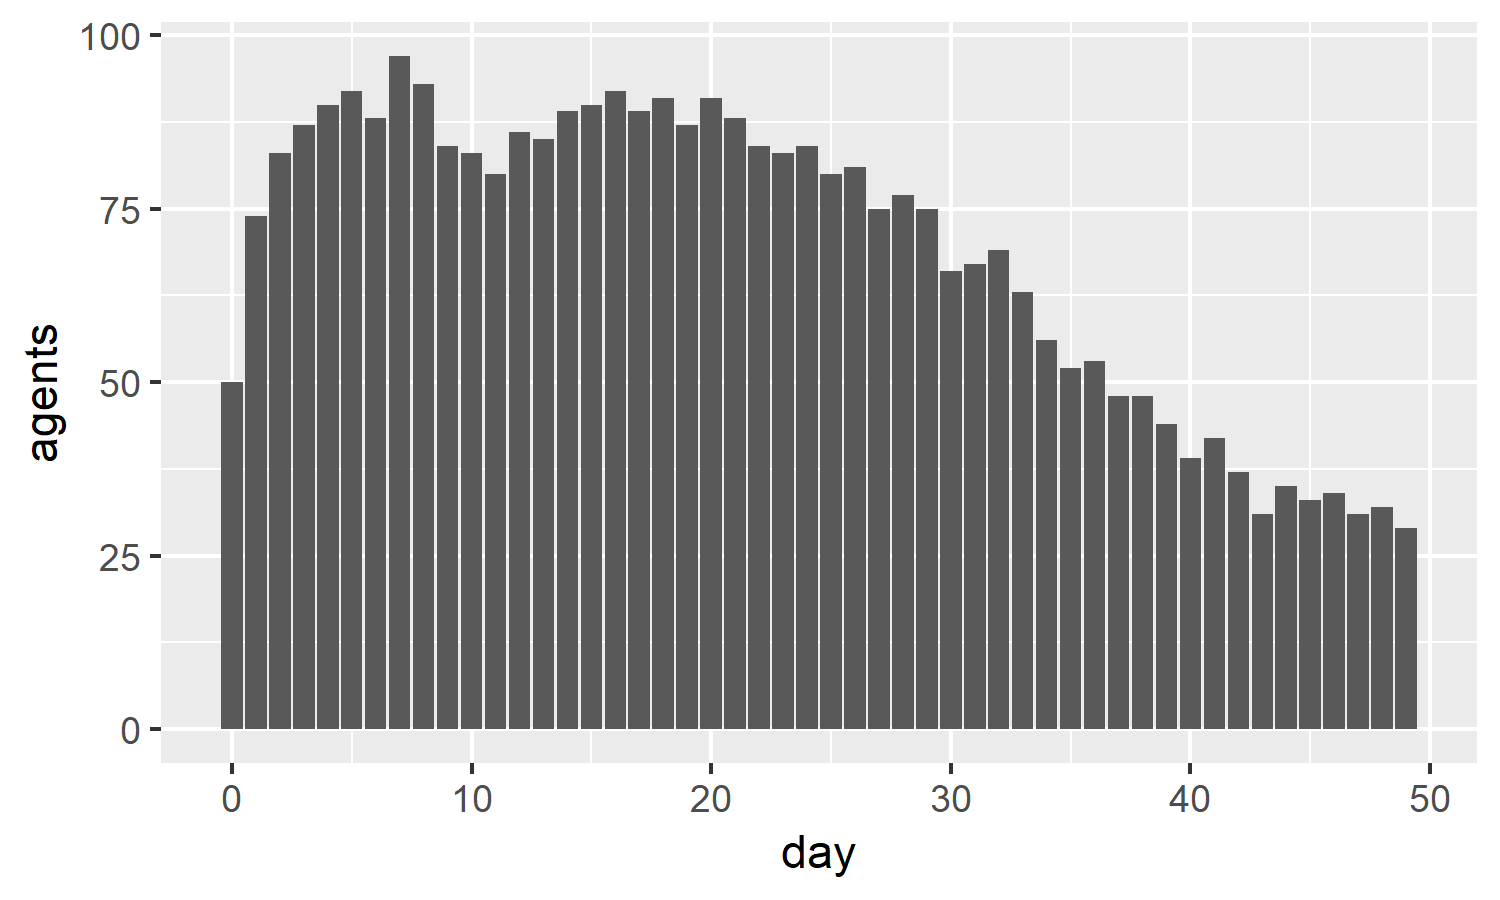
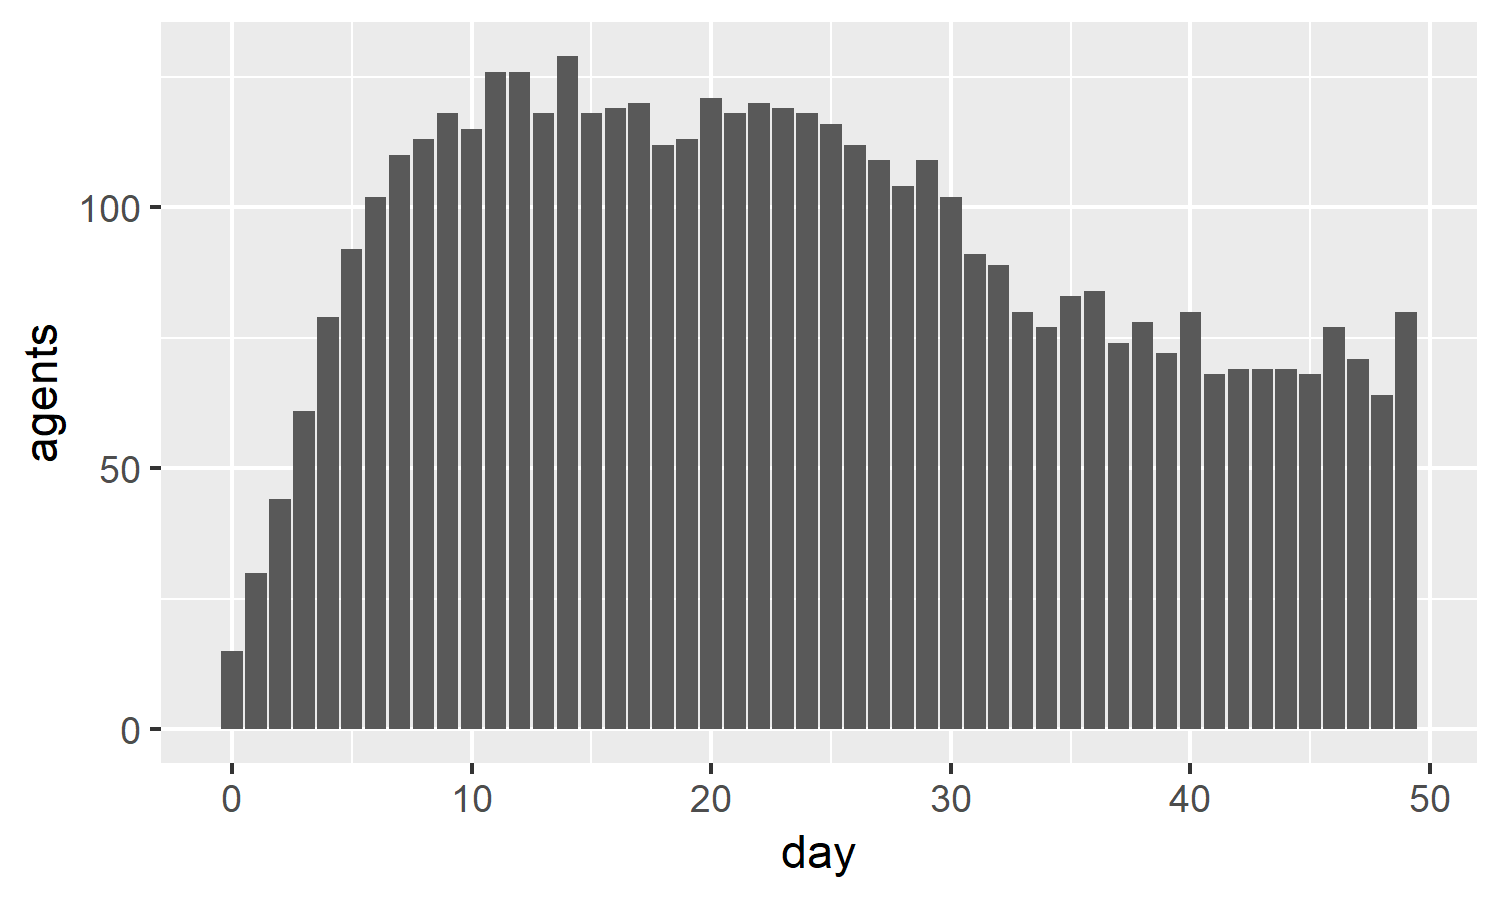
Remove agents and food on death

diff --git a/model.py b/model.py
@@ -14,10 +14,12 @@ class Model:
         # Data Capture Attributes
         self.pop_sum = [['day', 'agents']]
         self.attr_sum = [['day', 'avg_speed', 'avg_size', 'avg_sense']]
+        self.agent_data = [['id', 'birthday', 'deathday', 'reproduced', 'food_eaten', 'agents_eaten']]
+        self.food_data = [['id', 'birthday', 'deathday']]
 
         # Initialize original cohort of agents
         for i in range(self.params["N_AGENTS"]):
-            self.agents.append(Agent(i, self, params['SPEED'], params['SIZE'], params['SENSE']))
+            self.agents.append(Agent(self, params['SPEED'], params['SIZE'], params['SENSE']))
 
         # Initialize original cohort of food
         self.restore_food()
@@ -34,7 +36,7 @@ class Model:
 
         # Add food up to N_FOOD amount
         for i in range(self.params["N_FOOD"] - remaining_food):
-            new_food = Food(str(self.current_day) + str(i), self)
+            new_food = Food(self)
             self.food.append(new_food)
 
     def step(self):
@@ -45,6 +47,12 @@ class Model:
 
     def day(self):
         '''Runs, resets, and captures the actions of each day'''
+        # Let any applicable agents reproduce
+        for agent in self.agents:
+            if agent.reproduce:
+                agent.birth()
+                agent.reproduce = False
+
         # Reset remaining steps each day
         self.remaining_steps = self.params["DAILY_STEPS"]
 
@@ -64,8 +72,8 @@ class Model:
 
         # Average Speed, but return 0 if no agents (i.e., all are dead)
         avg_speed = sum(speeds) / len(speeds) if len(speeds) else 0
-        avg_size = sum(size) / len(size) if len(speeds) else 0
-        avg_sense = sum(sense) / len(sense) if len(speeds) else 0
+        avg_size = sum(size) / len(size) if len(size) else 0
+        avg_sense = sum(sense) / len(sense) if len(sense) else 0
         self.attr_sum.append([self.current_day, avg_speed, avg_size, avg_sense])
 
         # Let agents move around and capture their movement
@@ -76,12 +84,6 @@ class Model:
         # After each agent has moved, let them reset
         for agent in self.agents:
             agent.end_day()
-
-        # Let any applicable agents reproduce
-        for agent in self.agents:
-            if agent.reproduce:
-                agent.birth()
-                agent.reproduce = False
 
         # Reorder the Agents to reduce repeated bias
         shuffle(self.agents)
@@ -94,3 +96,4 @@ class Model:
         for day in range(self.params["N_DAYS"]):
             self.day()
             self.current_day += 1
+

diff --git a/agents.py b/agents.py
@@ -90,9 +90,10 @@ def overlap(pos1, r1, pos2, r2):
 
 class Food:
     '''Generic food that can be eaten by Agents'''
-    def __init__(self, id, model):
-        self.id = id
+    def __init__(self, model):
         self.model = model
+        self.birthday = self.model.current_day
+        self.id = str(self.birthday) + str(len(self.model.agents))
         self.pos = Pos(uniform(0, self.model.params["WIDTH"]), randint(0, self.model.params["HEIGHT"]))
         self.size = self.model.params["FOOD_SIZE"]
         self.value = self.model.params["FOOD_VALUE"]
@@ -101,13 +102,16 @@ class Food:
     def die(self):
         '''Sets alive attribute to False'''
         self.alive = False
+        self.model.food_data.append([self.id, self.birthday, self.model.current_day])
+        self.model.food.remove(self)
 
 
 class Agent:
     '''A being with a speed, size, sense, position, and heading'''
-    def __init__(self, id, model, speed, size, sense):
-        self.id = id
+    def __init__(self, model, speed, size, sense):
         self.model = model
+        self.birthday = self.model.current_day
+        self.id = str(self.birthday) + str(len(self.model.agents))
         self.pos = None
         self.heading = None
         self.speed = speed
@@ -159,6 +163,9 @@ class Agent:
     def die(self):
         '''Sets alive status to False'''
         self.alive = False
+        self.model.agent_data.append([self.id, self.birthday, self.model.current_day,
+                                      self.data['reproduced'], self.data['food_eaten'], self.data['agents_eaten']])
+        self.model.agents.remove(self)
 
     def closest_food(self):
         '''Returns the closest food / edible Agent'''
@@ -226,7 +233,7 @@ class Agent:
 
         state = "assessing"
 
-        if self.home:
+        if self.home or not self.alive:
             # Do nothing
             return
 
@@ -243,6 +250,7 @@ class Agent:
         # Get closest predator
         predators = self.predators()
 
+        # If headed home, bypass
         if state == 'sprint_home':
             state = 'home'
         elif predators:
@@ -369,7 +377,7 @@ class Agent:
                 sense *= 1 + (choice([-1, 1]) * self.model.params["SENSE_MOD"])
 
         # Right now, the offspring is technically born at a random location
-        offspring = Agent(len(self.model.agents), self.model, speed, size, sense)
+        offspring = Agent(self.model, speed, size, sense)
 
         self.model.agents.append(offspring)
 

diff --git a/gui.py b/gui.py
@@ -6,6 +6,7 @@ from json import load, dumps
 from csv import writer
 import subprocess
 from imgurpython import ImgurClient
+import time
 
 WEBHOOK_URL = keyring.get_password("NSBOT", "webhook")
 IMG_CLIENT_ID = keyring.get_password("NSBOT", "imgur")
@@ -30,13 +31,13 @@ class Settings(tk.LabelFrame):
         self.n_food = tk.Scale(self, from_=1, to=200, orient=tk.HORIZONTAL)
         self.n_food.grid(row=1, column=1, sticky='w')
 
-        # N Food
+        # N Days
         lbl_n_days = tk.Label(self, text="# of Days")
         lbl_n_days.grid(row=0, column=2, sticky='w')
         self.n_days = tk.Scale(self, from_=1, to=100, orient=tk.HORIZONTAL)
         self.n_days.grid(row=1, column=2, sticky='w')
 
-        # N Food
+        # N Steps
         lbl_day_steps = tk.Label(self, text="# Steps per Day")
         lbl_day_steps.grid(row=0, column=3, sticky='w')
         self.day_steps = tk.Scale(self, from_=50, to=150, orient=tk.HORIZONTAL)
@@ -276,7 +277,11 @@ class Application(tk.Tk):
         '''Runs the Natural Selection Simulator'''
         self.get_params()
         self.model = Model(self.params)
+
+        # Run and Time the Model
+        start_time = time.time()
         self.model.run()
+        print(f"Model took {(time.time() - start_time)} seconds.")
 
         with open("pop.csv", 'w', newline='') as f:
             r = writer(f)
